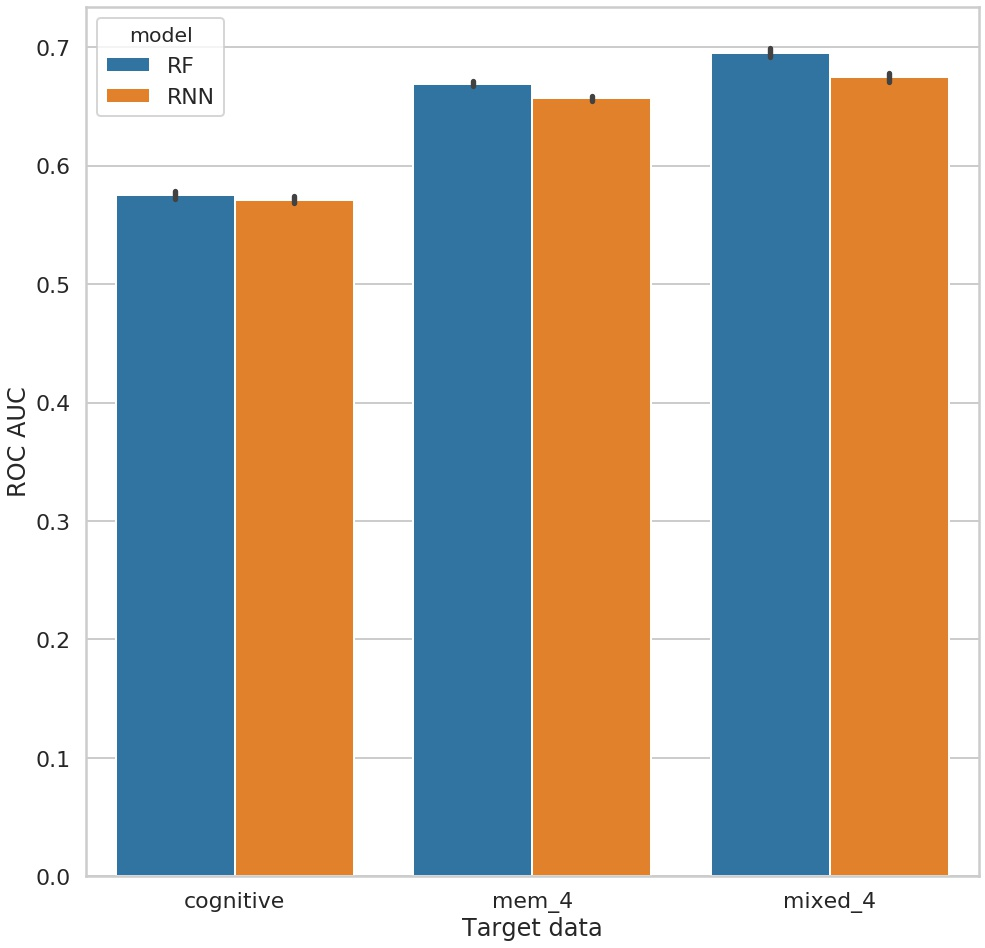
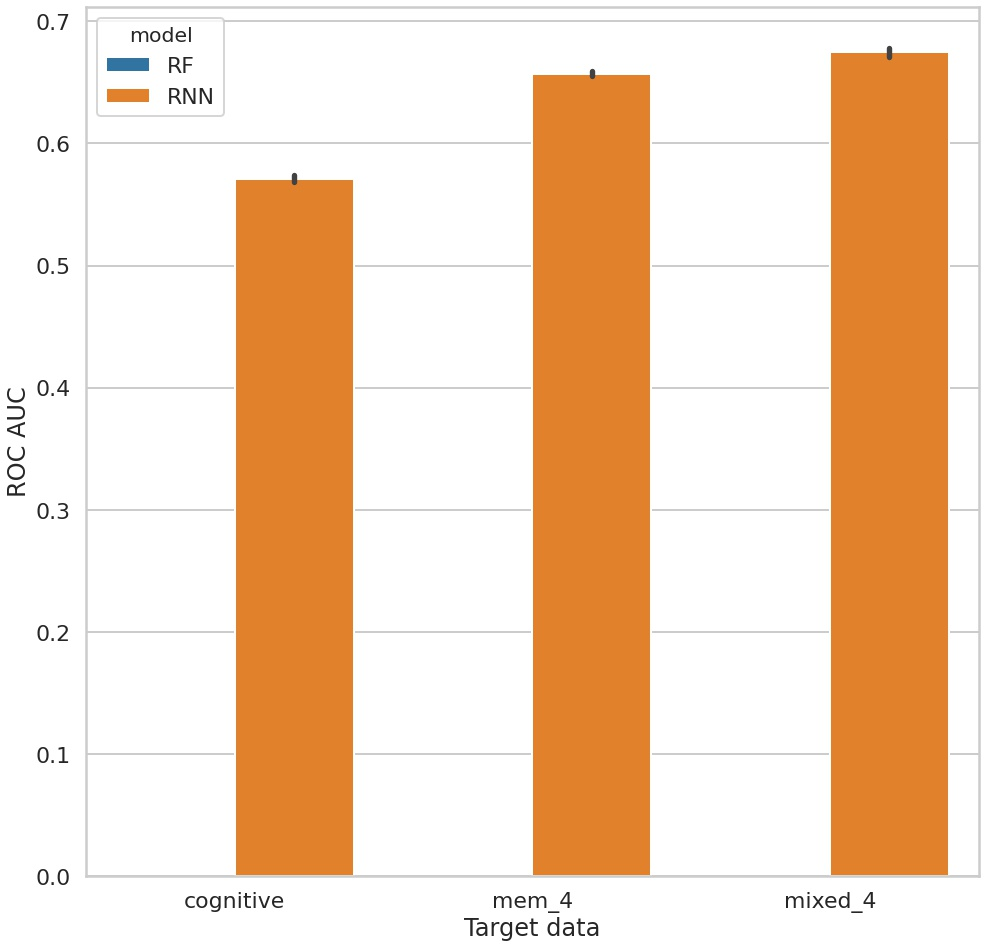
abs hidden reps

diff --git a/scripts/plot LOO.py b/scripts/plot LOO.py
@@ -16,7 +16,7 @@ from matplotlib import pyplot as plt
 sns.set_style('whitegrid')
 sns.set_context('poster')
 
-experiment = 'adequacy' # confidence or adequacy
+experiment = 'confidence' # confidence or adequacy
 working_dir = f'../results/{experiment}/LOO/'
 figure_dir = f'../figures/{experiment}/LOO_compare_RNN_RF/'
 if not os.path.exists(figure_dir):
@@ -36,7 +36,7 @@ for f in working_data:
     # normalize with each decoding
     temp_array = temp[[item for item in temp.columns if ('T-' in item)]].values
     if decoder == 'RNN':
-        temp_array = - temp_array
+        temp_array = np.abs(temp_array)
     temp_array = scaler().fit_transform(temp_array.T)
     temp[[item for item in temp.columns if ('T-' in item)]] = temp_array.T
     df.append(temp)
@@ -48,6 +48,7 @@ fig,ax = plt.subplots(figsize = (16,16))
 ax = sns.barplot(y = 'experiment',
                  x = 'score',
                  hue = 'model',
+                 hue_order = ['RF','RNN'],
                  data = df_plot,
                  ax = ax,
                  )
@@ -55,6 +56,7 @@ fig.savefig(os.path.join(figure_dir,
                          'RNN vs RF LOO.jpeg'),
 #            dpi = 400,
             bbox_inches = 'tight')
+
 unique_experiment = pd.unique(df_plot['experiment'])
 fig,axes = plt.subplots(figsize = (28,28),
                         nrows = 4,
@@ -67,6 +69,7 @@ for ax,experiment in zip(axes.flatten(),unique_experiment):
     ax = sns.barplot(x = 'variable',
                      y = 'value',
                      hue = 'model',
+                     hue_order = ['RF','RNN'],
                      data = df_sub_plot,
                      ax = ax,
                      )

diff --git a/scripts/plot_CD.py b/scripts/plot_CD.py
@@ -17,7 +17,7 @@ import seaborn as sns
 sns.set_style('whitegrid')
 sns.set_context('poster')
 
-experiment = 'adequacy' # confidence or adequacy
+experiment = 'confidence' # confidence or adequacy
 working_dir = f'../results/{experiment}/R*CD/'
 figure_dir = f'../figures/{experiment}/CD'
 if not os.path.exists(figure_dir):
@@ -37,7 +37,7 @@ for f in working_data:
     # normalize with each decoding
     temp_array = temp[[item for item in temp.columns if ('T-' in item)]].values
     if decoder == 'RNN':
-        temp_array = - temp_array
+        temp_array = np.abs(temp_array)
     temp_array = scaler().fit_transform(temp_array.T)
     temp[[item for item in temp.columns if ('T-' in item)]] = temp_array.T
     df.append(temp)
